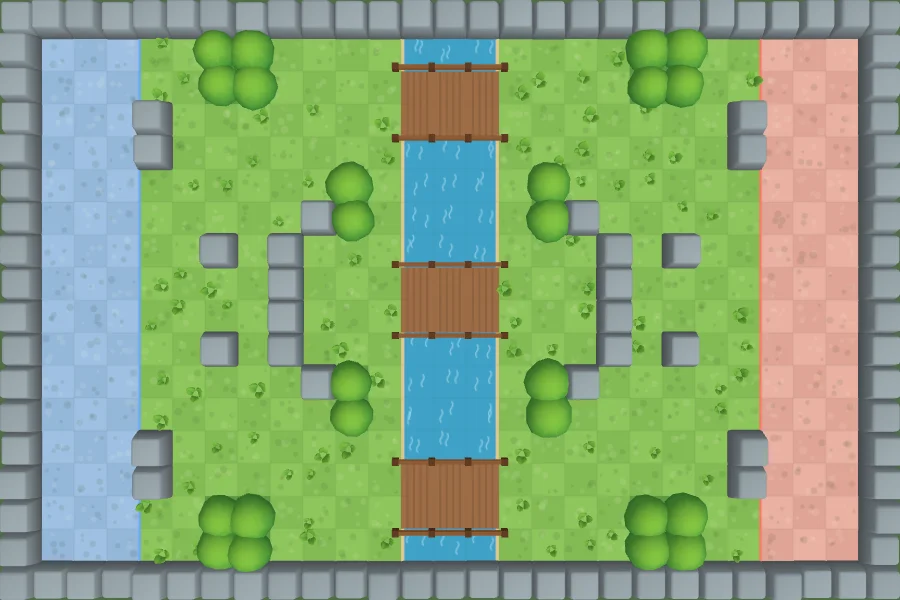
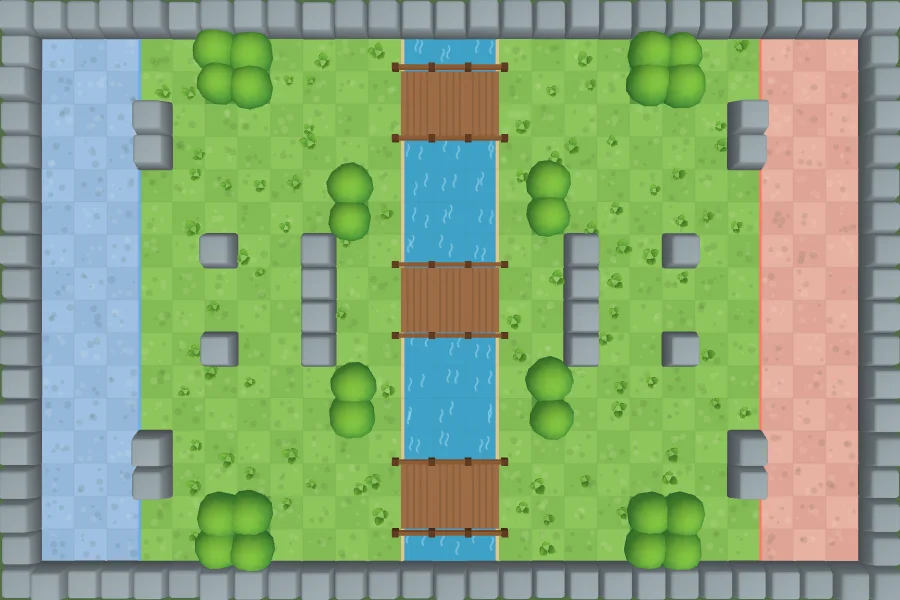
30번: 눈 광장·강 건너기 배치 수정, 맵 순서 가나다순, 연습장 맨 앞

diff --git a/games/30.team-battle/30.team-battle-tests.js b/games/30.team-battle/30.team-battle-tests.js
@@ -1,28 +1,44 @@
 class FixedTestArena {
-  static ID = "forest";
-  static HOST = "snow";
-  static BLUE_HALF = [
-    "................",
-    "................",
-    "................",
-    "...##......##...",
-    '""............""',
-    '"""....##...."""',
-    '""".........."""',
-    "....#......#....",
-    '....#..""..#....',
-    '.##....""....##.',
-    "................",
-    '..""...##...""..',
-    '..""........""..'
-  ];
+  static LAYOUTS = {
+    forest: { host: "snow", blueHalf: [
+      "................",
+      "................",
+      "................",
+      "...##......##...",
+      '""............""',
+      '"""....##...."""',
+      '""".........."""',
+      "....#......#....",
+      '....#..""..#....',
+      '.##....""....##.',
+      "................",
+      '..""...##...""..',
+      '..""........""..'
+    ] },
+    ford: { host: "river", blueHalf: [
+      "................",
+      "................",
+      "................",
+      "..##........##..",
+      "................",
+      '""....#..#....""',
+      '""............""',
+      "......####......",
+      ".....#....#.....",
+      '....""....""....',
+      "................",
+      "~==~~~~==~~~~==~",
+      "~==~~~~==~~~~==~"
+    ] }
+  };
   static install(api) {
-    var load = api.loadMapData, host = api.MAPS[FixedTestArena.HOST];
+    var load = api.loadMapData;
     api.loadMapData = function (id) {
-      if (id !== FixedTestArena.ID) return load(id);
-      var real = host.blueHalf;
-      host.blueHalf = FixedTestArena.BLUE_HALF;
-      try { return load(FixedTestArena.HOST); } finally { host.blueHalf = real; }
+      var fixed = FixedTestArena.LAYOUTS[id];
+      if (!fixed) return load(id);
+      var host = api.MAPS[fixed.host], real = host.blueHalf;
+      host.blueHalf = fixed.blueHalf;
+      try { return load(fixed.host); } finally { host.blueHalf = real; }
     };
   }
 }
@@ -4163,7 +4179,7 @@ class ResultCollector {
   runAsync(ROSTERG, "맵 고르기 목록(mapChoices)·무작위 맵(resolveArena)·모드 이름이 맞는가", async function (done) {
     var bad = [], ids = function (l) { return l.map(function (m) { return m.id; }).join(); }, real = Math.random;
     if (ids(api.mapChoices("pvp")) !== ["random"].concat(api.MAP_IDS).join()) bad.push("일반모드 목록 " + ids(api.mapChoices("pvp")));
-    if (ids(api.mapChoices("practice")) !== api.MAP_IDS.concat(["practice"]).join()) bad.push("연습모드 목록");
+    if (ids(api.mapChoices("practice")) !== ["practice"].concat(api.MAP_IDS).join()) bad.push("연습모드 목록");
     if (api.resolveArena("river") !== "river" || api.resolveArena("practice") !== "practice") bad.push("정해진 맵은 그대로");
     try {
       Math.random = function () { return 0.99; }; if (api.resolveArena("random") !== api.MAP_IDS[api.MAP_IDS.length - 1]) bad.push("무작위 끝");
@@ -6164,7 +6180,7 @@ class HookPathTests {
     var self = this, api = this.api, run = this.kit.run, G = HookPathTests.GROUP;
     HookPathTests.CASES.forEach(function (c) {
       run(G, c[0] + ": " + c[5] + ", 끝 (" + c[6] + "," + c[7] + "), 이동 " + c[8], function (done) {
-        api.loadMapData("river");
+        api.loadMapData("ford");
         var p = api.HOOK_PATH.plan(c[1], c[2], c[3], c[4], c[9]), ok = p.kind === c[5] && Math.abs(p.ex - c[6]) <= 1 && Math.abs(p.ey - c[7]) <= 1 && Math.abs(p.dist - c[8]) <= 1;
         done(ok ? "pass" : "fail", p.kind + ", 끝 (" + p.ex.toFixed(1) + "," + p.ey.toFixed(1) + "), 이동 " + p.dist.toFixed(1));
       });
@@ -6236,7 +6252,7 @@ class WraithTests {
     var self = this, api = this.api, run = this.kit.run, G = WraithTests.GROUP, FRAME = this.kit.FRAME, ULT = api.ULT;
     [["A2", 450, 800, 450, 560, 450, 616], ["A3", 250, 840, 250, 560, 250, 774], ["A4", 300, 774, 300, 576, 300, 774], ["A8", 476, 790, 380, 560, 424, 665.4]].forEach(function (c) {
       run(G, "실제 끌기 " + c[0] + ": 끝 위치가 경로 표와 같고, 프레임마다 벽·물 밖이며, 끝난 뒤 위치가 밀리지 않는가", function (done) {
-        var bad = [], W = self.duel("river", c[3], c[4], c[0 + 1], c[2]), A = W.ent("wr"), T = W.ent("foe");
+        var bad = [], W = self.duel("ford", c[3], c[4], c[0 + 1], c[2]), A = W.ent("wr"), T = W.ent("foe");
         function each() { if (!self.canStand(T.x, T.y)) bad.push("(" + T.x.toFixed(1) + "," + T.y.toFixed(1) + ") 에 설 수 없음"); }
         self.throwChain(W, A, T.x, T.y);
         if (!self.untilCaught(W, FRAME, each)) bad.push("맞지 않음");
@@ -6251,7 +6267,7 @@ class WraithTests {
     run(G, "프레임 간격 8·16·33·100·250ms 에서 끌기 끝 위치가 같은가(터널링 없음)", function (done) {
       var bad = [], ends = [];
       [8, 16, 33, 100, 250].forEach(function (frame) {
-        var W = self.duel("river", 380, 560, 476, 790), A = W.ent("wr"), T = W.ent("foe");
+        var W = self.duel("ford", 380, 560, 476, 790), A = W.ent("wr"), T = W.ent("foe");
         self.throwChain(W, A, T.x, T.y);
         self.untilCaught(W, frame);
         self.untilArrived(W, T, frame, function () { if (!self.canStand(T.x, T.y)) bad.push(frame + "ms 프레임에서 물 안"); });
@@ -6272,7 +6288,7 @@ class WraithTests {
     });
     run(G, "끌리는 동안 매 프레임 기절·속도 0·공격 불가이고, 도착 뒤 정확히 0.5초 뒤 기절이 풀리는가(짧은 거리·최대 거리)", function (done) {
       var bad = [], shown = [];
-      [["짧은 거리", "river", 200, 560, 200, 300], ["최대 거리", "practice", 450, 340, 450, 1010]].forEach(function (c) {
+      [["짧은 거리", "ford", 200, 560, 200, 300], ["최대 거리", "practice", 450, 340, 450, 1010]].forEach(function (c) {
         var W = self.duel(c[1], c[2], c[3], c[4], c[5]), A = W.ent("wr"), T = W.ent("foe"), hitAt = 0, atk = T.atkAt;
         self.throwChain(W, A, T.x, T.y);
         self.untilCaught(W, 4);
@@ -6291,7 +6307,7 @@ class WraithTests {
         if (api.stunned(T, freeAt + 1)) bad.push(c[0] + " 풀린 뒤에도 기절");
         shown.push(c[0] + " " + planned.toFixed(0) + " 이동, 기절 실제 " + ((freeAt - hitAt) / api.timeScale() / 1000).toFixed(2) + "초");
       });
-      [["강가 none", "river", 300, 576, 300, 774]].forEach(function (c) {
+      [["강가 none", "ford", 300, 576, 300, 774]].forEach(function (c) {
         var W = self.duel(c[1], c[2], c[3], c[4], c[5]), A = W.ent("wr"), T = W.ent("foe");
         self.throwChain(W, A, T.x, T.y);
         self.untilCaught(W, 4);
@@ -6329,7 +6345,7 @@ class WraithTests {
   registerHits() {
     var self = this, api = this.api, run = this.kit.run, G = WraithTests.GROUP, FRAME = this.kit.FRAME, ULT = api.ULT;
     run(G, "물 건너 거리 280 의 적이 맞아 피해 35·기절을 받는가", function (done) {
-      var bad = [], W = self.duel("river", 250, 560, 250, 840), A = W.ent("wr"), T = W.ent("foe");
+      var bad = [], W = self.duel("ford", 250, 560, 250, 840), A = W.ent("wr"), T = W.ent("foe");
       self.throwChain(W, A, T.x, T.y);
       if (!self.untilCaught(W, FRAME)) bad.push("맞지 않음");
       if (self.lost(T) !== ULT.hkDmg) bad.push("피해 " + self.lost(T));
@@ -6337,7 +6353,7 @@ class WraithTests {
       self.verdict(done, bad, "피해 " + self.lost(T) + "·기절");
     });
     run(G, "벽 뒤의 적은 맞지 않고 게이지를 돌려받지 않으며, 비행 시간이 끝나면 묶임이 풀리는가", function (done) {
-      var bad = [], W = self.duel("river", 200, 350, 200, 100), A = W.ent("wr"), T = W.ent("foe");
+      var bad = [], W = self.duel("ford", 200, 350, 200, 100), A = W.ent("wr"), T = W.ent("foe");
       self.throwChain(W, A, T.x, T.y);
       var rootEnd = A.hookRootUntil;
       if (api.speedOf(A) !== 0) bad.push("준비 중 움직일 수 있음");
@@ -6375,7 +6391,7 @@ class WraithTests {
       self.verdict(done, bad, "경계 " + reach + " 안쪽 맞음·바깥 빗나감");
     });
     run(G, "풀숲 안·은신 중인 적은 끌리는 동안 드러나고, 끝나면 원래 규칙으로 돌아가는가", function (done) {
-      var bad = [], W = self.duel("river", 100, 600, 100, 350), A = W.ent("wr"), T = W.ent("foe");
+      var bad = [], W = self.duel("ford", 100, 600, 100, 350), A = W.ent("wr"), T = W.ent("foe");
       self.throwChain(W, A, T.x, T.y);
       if (!api.inBush(T.x, T.y)) bad.push("풀숲 자리 아님");
       if (api.revealedTo(T, A, W.t())) bad.push("맞기 전에 드러남");
@@ -6486,7 +6502,7 @@ class WraithTests {
       self.verdict(done, bad, "돌진 끊김·끌림");
     });
     run(G, "끌리는 중 수문장 밀치기: 끌기가 끝나고 넉백되며 벽·물을 넘지 않는가", function (done) {
-      var bad = [], s = pulled("river", 450, 560, 450, 800), T = s.T, W = s.W;
+      var bad = [], s = pulled("ford", 450, 560, 450, 800), T = s.T, W = s.W;
       W.room.ref.child("meleeHits").push({ team: "blue", owner: "wr", x: T.x + 30, y: T.y, angle: Math.PI, radius: 100, arc: 6.28, dmg: 1, kb: 200, createdAt: W.t() });
       if (!T.shove) bad.push("넉백이 안 걸림");
       W.frame(FRAME);
@@ -6656,14 +6672,14 @@ class WraithTests {
       self.verdict(done, bad, "간격 " + gap.toFixed(2) + "초, 타격 1번");
     });
     run(G, "기본 공격: 벽 뒤는 맞지 않고 강 건너는 맞으며, 아군·보호 중인 적은 영향이 없고, 그림 길이가 벽에서 줄어든 길이와 같은가", function (done) {
-      var bad = [], W = self.duel("river", 200, 350, 200, 100), A = W.ent("wr"), up = -Math.PI / 2;
+      var bad = [], W = self.duel("ford", 200, 350, 200, 100), A = W.ent("wr"), up = -Math.PI / 2;
       api.fireBasic(A, up); strike(W);
       if (self.lost(W.ent("foe"))) bad.push("벽 뒤 적이 맞음");
       var hit = W.log.filter(function (p) { return p.path === "meleeHits" && !p.v.zone && p.v.owner === "wr"; })[0].v;
       if (!(hit.len < C.range)) bad.push("길이가 줄지 않음 " + hit.len);
       var slam = api.FIELD.slams[0];
       if (!slam || slam.d.len !== hit.len) bad.push("그림 길이 " + (slam && slam.d.len) + " / 판정 " + hit.len);
-      var W2 = self.duel("river", 250, 576, 250, 790), A2 = W2.ent("wr");
+      var W2 = self.duel("ford", 250, 576, 250, 790), A2 = W2.ent("wr");
       api.fireBasic(A2, Math.PI / 2); strike(W2);
       if (self.lost(W2.ent("foe")) !== C.dmg) bad.push("강 건너 피해 " + self.lost(W2.ent("foe")));
       var W3 = self.scene("practice", [{ id: "wr", team: "blue", char: "wraith", x: 150, y: y, slot: 1 }, { id: "al", team: "blue", x: 250, y: y, slot: 2 }, { id: "sf", x: 350, y: y, slot: 1 }]), A3 = W3.ent("wr"), S = W3.ent("sf");
@@ -6747,7 +6763,7 @@ class WraithTests {
       self.verdict(done, bad, "준비 뒤 타격");
     });
     run(G, "내려치기 이펙트: 사슬이 땅에 닿으면 균열·먼지·파편·불티가 생기고, 물 위에는 균열이 없으며, 끝나면 남지 않는가", function (done) {
-      var bad = [], W = self.duel("river", 250, 560, 250, 900), A = W.ent("wr"), view = api.HOOK_VIEW, B = api.ChainSlamBurst;
+      var bad = [], W = self.duel("ford", 250, 560, 250, 900), A = W.ent("wr"), view = api.HOOK_VIEW, B = api.ChainSlamBurst;
       api.fireBasic(A, Math.PI / 2); strike(W);
       var s = api.FIELD.slams[0];
       view.render(W.t(), Date.now());
@@ -6878,7 +6894,7 @@ class WraithTests {
       self.verdict(done, bad, "거리 안에서 사용");
     });
     run(G, "AI: 끌리는 거리가 " + ULT.hkBotMinPull + " 미만인 적(강 건너)에게는 스킬을 쓰지 않는가", function (done) {
-      var bad = [], W = self.duel("river", 300, 576, 300, 800, "dummy"), A = W.ent("wr"), T = W.ent("foe"), type = api.CHAR_TYPES.of("wraith");
+      var bad = [], W = self.duel("ford", 300, 576, 300, 800, "dummy"), A = W.ent("wr"), T = W.ent("foe"), type = api.CHAR_TYPES.of("wraith");
       if (type.botUltAllowed(A, T)) bad.push("강 건너 적을 허용");
       A.gauge = api.GAUGE_MAX;
       for (var ms = 0; ms < 1000; ms += 33) { A.x = 300; A.y = 576; W.frame(33, true); }
@@ -6932,7 +6948,7 @@ class WraithTests {
     run(G, "대상이 방장 기기의 AI 여도, 내 캐릭터여도 같은 결과가 나오는가", function (done) {
       var bad = [], before = api.setMyId("foe");
       try {
-        var W = self.duel("river", 380, 560, 476, 790), A = W.ent("wr"), T = W.ent("foe");
+        var W = self.duel("ford", 380, 560, 476, 790), A = W.ent("wr"), T = W.ent("foe");
         delete T.bot; delete api.MATCH.bots.foe; api.MATCH.me = T;
         W.room.host = "foe";
         self.throwChain(W, A, T.x, T.y);

diff --git a/30.team-battle-arena.html b/30.team-battle-arena.html
@@ -607,7 +607,7 @@ SinglePassMaterials.enable(THREE);
       '......""""......',
       '................',
       '""".........."""',
-      '""".x......x."""',
+      '""".........."""',
       '................',
       '....""tttt""....',
       '....""tttt""....'
@@ -622,8 +622,8 @@ SinglePassMaterials.enable(THREE);
       "................",
       '""....#..#....""',
       '""............""',
+      "................",
       "......####......",
-      ".....#....#.....",
       '....""....""....',
       "................",
       "~==~~~~==~~~~==~",
@@ -683,7 +683,7 @@ SinglePassMaterials.enable(THREE);
   }
   class MapCatalog {
     static KINDS = { snow: SnowPlazaMap, river: RiverMap, dungeon: DungeonMap, windhill: WindhillMap, practice: PracticeMap };
-    static IDS = ["snow", "river", "dungeon", "windhill"];
+    static IDS = ["river", "snow", "dungeon", "windhill"];
     static of(id) { return Object.prototype.hasOwnProperty.call(MapCatalog.KINDS, id) ? MapCatalog.KINDS[id].DATA : undefined; }
     static table() {
       var table = {};
@@ -1426,7 +1426,7 @@ SinglePassMaterials.enable(THREE);
     flashHint(t) { var services = this.services; services.lobby.hintText = t; services.lobby.hintUntil = Date.now() + 2500; services.lobby.renderLobby(); setTimeout(function () { services.lobby.renderLobby(); }, 2600); }
     mapChoices(mode) {
       var maps = MapCatalog.IDS.map(function (id) { return { id: id, name: MapCatalog.of(id).name }; });
-      return mode === "practice" ? maps.concat([{ id: "practice", name: MapCatalog.of("practice").name }]) : [{ id: "random", name: "랜덤" }].concat(maps);
+      return mode === "practice" ? [{ id: "practice", name: MapCatalog.of("practice").name }].concat(maps) : [{ id: "random", name: "랜덤" }].concat(maps);
     }
     nameIn(list, id, fallback) { for (var i = 0; i < list.length; i++) if (list[i].id === id) return list[i].name; return fallback; }
     modeName(id) { var services = this.services; return services.lobby.nameIn(GameModes.LIST, id, "모드 선택 중"); }
@@ -10297,8 +10297,8 @@ SinglePassMaterials.enable(THREE);
     static SNOW = 0xF4F9FF;
     static DRIFT = [0xEEF4FC, 0xE0EAF7, 0xF8FBFF];
     static SHRUB = 0x3F8F6E;
-    static HOUSE_H = 88;
-    static SNOWMAN_H = 70;
+    static BIG_SNOWMAN_H = 124;
+    static BIG_SNOWMAN_SPAN = { w: 4.1, d: 2.4 };
     static TREE_H = 150;
     static ORNAMENTS = [0xE0524A, 0xF2C14E, 0x4F8FE0, 0xFFFFFF];
     static GIFTS = ["giftRed", "giftGreen", "giftBlue", "giftYellow", "giftWhite"];
@@ -10315,8 +10315,7 @@ SinglePassMaterials.enable(THREE);
     }
     build(th) {
       var services = this.services, group = services.stage.arenaGroup;
-      this.addHouses(group);
-      this.addSnowmen(group);
+      this.addBigSnowmen(group);
       this.addCenterTree(group);
       this.addDrifts(group);
       this.addShrubs(th);
@@ -10327,17 +10326,10 @@ SinglePassMaterials.enable(THREE);
     }
     prop(name) { return this.services.models.kit.props[name]; }
     facingCenter(z) { return z < ArenaSize.MH / 2 ? 0 : Math.PI; }
-    addHouses(group) {
-      var services = this.services;
+    addBigSnowmen(group) {
+      var services = this.services, span = SnowPlazaProps.BIG_SNOWMAN_SPAN;
       services.arenaMap.tileRects("#").forEach((rect) => {
-        group.add(services.props.fitProp(this.prop("snowHouse"), rect.w * 1.34, SnowPlazaProps.HOUSE_H, rect.h * 1.34, rect.x, rect.y, this.facingCenter(rect.y)));
-      });
-    }
-    addSnowmen(group) {
-      var services = this.services;
-      services.arenaView.tilesOf("x").forEach((tile) => {
-        var x = services.arenaMap.tileX(tile[0]), z = services.arenaMap.tileY(tile[1]);
-        group.add(services.props.fitProp(this.prop("snowman"), ArenaSize.TILE * 2, SnowPlazaProps.SNOWMAN_H, ArenaSize.TILE * 1.15, x, z, this.facingCenter(z)));
+        group.add(services.props.fitProp(this.prop("snowman"), ArenaSize.TILE * span.w, SnowPlazaProps.BIG_SNOWMAN_H, ArenaSize.TILE * span.d, rect.x, rect.y, this.facingCenter(rect.y)));
       });
     }
     pineParts(parts, x, z, width, depth, height, lift) {

diff --git a/docs/30.team-battle/30.team-battle-notes.md b/docs/30.team-battle/30.team-battle-notes.md
@@ -381,11 +381,12 @@
 - **데이터 흐름**: 팀 대기실을 열 때(`showParty`) 내 통계를 한 번 읽어(`ArenaVersusCurtain.loadMine`) 요약을 들고 있다가, 방에 들어갈 때 내 자리 `players/<id>/vs = {g, w, t: [[캐릭터, 판, 승]…]}` 에 함께 쓴다(쓰기 횟수 그대로). 판이 끝나면 6초 뒤(계정 기록이 써진 다음) 다시 한 번 읽는다 — 판마다 읽기 1번. 막이 뜰 때 방 `assign` 을 한 번 읽는다(판마다 읽기 1번).
 - **시간**: 방장은 사람이 다 모여도 막이 뜬 지 4.5초(`ArenaVersusCurtain.SHOW_MS`)가 지나야 드래프트를 시작한다(`startAfterShow`). 드래프트·시작 화면·팀 대기실로 넘어가면 닫히는데, 뜬 지 2초(`MIN_MS`)가 안 됐으면 채우고 닫는다. 화면 크기는 vw·vh 로 맞춰 꽉 차고, 760px 아래에서는 블루 → VS → 레드 세로.
 - **눈 마을 광장(2026-11-28 선생님 요청, 숲속 공터를 대체)**: 돌이 많아 공격이 자주 막히던 숲속 공터를 없애고 그 자리에 넣었다. 맵 아이디 `snow`(옛 `forest` 는 없는 아이디 → 없는 맵은 `snow` 로 읽음), 데이터 `SnowPlazaMap.DATA`, 소품 `SnowPlazaProps`(`services.snowPlaza`), 색 `MapThemes.THEMES.snow`(`snowy`·`plaza`).
-  - 칸 글자: `#` 진저브레드 집(2×2, 4채), `x` 눈사람(1칸, 4개), `t` 가운데 크리스마스 트리(4×3, 새 벽 글자 — `TileKinds.BLOCK_TILES`·`ROCK_TILES`), `"` 눈 덮인 덤불. 물·다리는 없다.
+  - 칸 글자: `#` 큰 눈사람(2×2, 4개 — 처음의 진저브레드 집과 가운데 1칸 눈사람 4개는 같은 날 선생님 요청으로 바꿈·없앰, 집은 바깥 장식에만 남음), `t` 가운데 크리스마스 트리(4×3, 새 벽 글자 — `TileKinds.BLOCK_TILES`·`ROCK_TILES`), `"` 눈 덮인 덤불. 물·다리는 없다.
   - 트리는 저장소에 모델이 없어 원뿔로 직접 만든다(`pineParts`, 바깥 침엽수도 같음). 터치·저사양 기기는 바깥 장식(`scenery`)을 그리지 않는다.
   - 확인: `&test` 537 통과, AI 시뮬레이션 1,470판 시점에서 3초 넘게 제자리인 프레임 비율 눈 광장 0.05%(강 0.16·던전 0.04·언덕 0.06). 5,000판 밸런스 보고서와 실제 태블릿 렉은 아직 확인하지 않았다.
   - 검사의 `world("forest")`·`loadMapData("forest")` 는 **검사 전용 시험장**(옛 숲속 공터 배치, `FixedTestArena`)이다. 벽·빈 줄 위치에 기대는 상호작용 검사가 맵을 바꿔도 흔들리지 않게 둔 것이고, 실제 맵 검사(맵 데이터·밀어내기·착지·경로)는 `snow` 를 쓴다.
-- **기본 맵은 랜덤**(2026-11-28 선생님 요청): 방을 만들면(그리고 연습모드에서 나오면) 맵이 `random` 으로 골라져 있고, 맵 버튼은 `랜덤`이 맨 앞이다(`Lobby.mapChoices`, 연습모드 목록은 맵 4개 뒤 `연습장` 그대로).
+- **기본 맵은 랜덤**(2026-11-28 선생님 요청): 방을 만들면(그리고 연습모드에서 나오면) 맵이 `random` 으로 골라져 있고, 맵 버튼은 `랜덤`이 맨 앞이다(`Lobby.mapChoices`). 연습모드 목록은 `연습장`이 맨 앞. 맵 순서는 가나다순(강 건너기 → 눈 마을 광장 → 던전 회랑 → 바람의 언덕, `MapCatalog.IDS`).
+- **강 건너기 배치 수정**(2026-11-28 선생님 요청): 가운데 4칸 벽 대각선 아래의 1칸 돌 2개를 없애고 4칸 벽을 강 쪽으로 1칸 옮겼다(점대칭 유지). 옛 배치는 검사 전용 시험장 `ford`(`FixedTestArena`)로 남겨 사슬 망령 끌기 거리 검사가 쓴다.
 - **맵 이름은 매칭 표(`ticket.map`)에서**(2026-10-29, `ArenaVersusCurtain.mapName`): 방에 들어간 직후 `room.map` 은 입장 때 채운 기본값(당시 `forest`, 2026-11-28 부터 `random`)이라 막이 "숲속 공터"를 먼저 그렸다가 방 값이 도착하면 바뀌었다(24번과 같은 문제). 랜덤 매칭이면 매칭 표의 맵 이름을, 아니면 방 값을 쓴다.
   **맵이 `랜덤`인 일반 방**(2026-11-04 선생님 보고: 승률·모스트 캐릭터 없이 제목과 안내만 나옴): `room.map` 이 `random` 이면 `MapCatalog.of` 가 비어 `mapName` 이 오류를 내고 선수 줄을 하나도 못 그렸다. 실제 맵은 `startGame`·`startDraft` 에서 정해지므로 막에는 `랜덤 맵`이라고 쓴다.
   **예방**: 막·대결 화면처럼 방에 들어가자마자 그리는 화면은 `services.session.room` 의 값(맵·모드·팀 등)을 바로 믿지 않는다 — 입장 때 기본값으로 채워 두었다가 구독 값이 오면 바꾸기 때문이다. 매칭 표처럼 입장 전에 이미 정해진 값을 쓰거나, 방 값이 도착한 뒤에 그린다.
@@ -965,7 +966,7 @@
 
 - **고친 뒤 확인하는 순서(매번, 2026-10-13 정리)**: 구조를 크게 고친 뒤에는 `&test`·`&sim` 만으로는 부족하다. 필드가 메서드를 덮어쓴 `stormMask` 사고, 문자열 안 `clamp(` 치환, 정의되지 않은 `TOUR_STILL_SHOT`·`ov` 가 이 둘을 통과하고 특정 화면에서만 터졌다.
   1. `&test`: "통과 546 · 문제 0 · 확인 필요 0"(2026-11-26 저격수 원 검사 추가 뒤. 그 전 545 — 같은 날 방패병 둘째·셋째 수정(요한계시록 본인만·해일·독병) 뒤. 그 전 544 — 같은 날 전체 공격 검사 추가 뒤. 그 전 543 — 같은 날 원거리 발사 지점 뒤, 그 전 540 — 같은 날 궁수·뇌전사수 화살 그림, 검사 "화살 그림" 3개 추가. 그 전 "통과 536" — 2026-11-25 드루이드·공학자·네크로 3차 수정(5-24) 뒤 결과 해시 993568538. 2차 뒤 3300243291. 그 전 533: 1차 개선 뒤 결과 해시 2323061302 — 헤드리스 크롬 화면 글을 그대로 모아 같은 식으로 낸 값, 같은 코드에서 한 번 더 돌리면 570452786 처럼 사슬 망령 AI 항목 때문에 달라질 수 있다. 그 전 526: 헌터 스킬 중 볼트 오라 뒤 결과 해시 1934846820, `&sim` 은 그림만 바뀌어 그대로. 그 전 2026-11-25 헌터 유도 착지 사격 — 헌터 그룹 유도 검사 3개 추가, 결과 해시 1839015040. 그 전 523: 2026-11-25 헌터 추가 — 그룹 "헌터" 12개·헌터 난전·AI 역할 표·발사 지점에 헌터 석궁. 결과 해시 3942867273. 그 전 509: 2026-11-25 아르카 발사 지점 검사 추가 — 손·총구 고정점 없이 몸에서 쏘는 캐릭터 목록도 보여 줌, 그 전 508 아르카 빈 결계 사라짐 검사 추가, 그 전 507 — 2026-11-24 아르카 검사 12개·아르카 난전·결계 조준 범위 추가, 그 전 493(스킬 조준 범위 검사 11개 추가), 그 전 482(둔화 점수 저장 거부 검사)·481(방패병 패시브)·480(밀어내기)·479(모습)·478(방패병)·464(원형 스킬 벽 무시)·460(팬텀)·449·429(2026-11-05 선봉장·해일 해골 검사 추가)·427·425·423·422·396·394·376·375·374·366·289·287·286·285·280·279·278·269).
-  2. `&sim` 해시: `?c=test&sim` 에서 `TB_SIM.run(300,5000)` 후 `TB_SIM.done` 을 기다려 `JSON.stringify(TB_SIM.results)` 의 djb2(식은 10절)가 **2017900868 (길이 739213)**(2026-11-28 숲속 공터 → 눈 마을 광장). 그 전 **3171098531 (길이 739512)**(2026-11-28 아르카 구슬 속도 700, 5-30). 그 전 **806109381 (길이 739075)**(2026-11-26 v7: 암살자 게이지 4·팬텀 질풍 하향, 5-28 — 5-29 하향 값은 따로 적지 않음). 그 전 **999055438 (길이 739058)**(2026-11-26 궁수·저격수·주술사·은신자 투사체 속도 조정, 5-27). 그 전 **1000627799 (길이 738749)**(2026-11-26 헌터·뇌전사수 스킬 쓰는 순간 기본 공격 대기 0). 그 전 **554949636 (길이 738997)**(2026-11-26 저격수 패시브 거리 500 → 400). 그 전 **1079544362 (길이 739102)**(2026-11-26 요한계시록은 방패병 본인만 막도록 다시 고친 뒤). 그 전 **995741589 (길이 739171)**(2026-11-26 요한계시록·해일을 방패가 막고 독병·독안개는 던진 자리로 방패병 본인만 막음). 그 전 **2979211188 (길이 739133)**(2026-11-26 공학자 포탄을 총구 방향으로 막고 마리나 막힌 물줄기가 튀지 않게 고친 뒤). 그 전 **2595131624 (길이 739297)**(2026-11-26 화살 그림·원거리 발사 지점 수정 전후 같음 — 11-26 드루이드·아르카·네크로 수치 조정이 반영된 값). 그 전 **3765992671 (길이 738656)**(2026-11-25 드루이드·공학자·네크로 3차 수정(5-24). 그 전 1082773350·길이 738924 — 2차. 그 전 1538298846·길이 738672 — 1차 개선. 그 전 3643394870·길이 739150 — 헌터 착지 사격을 가장 가까운 적 유도 볼트로. 그 전 4004165230·길이 738949 — 2026-11-25 헌터 추가 — 헌터가 이름순 목록에 들어가 캐릭터 뽑기가 달라졌으므로 전 값과 비교하지 않는다. AI 착지 자리 판단(`HunterBotMind.plan`)을 넣기 전 첫 값은 3513815874·길이 738749. 그 전 1838969245·길이 740558 — 2026-11-25 아르카 결계가 갇힌 적이 없으면 사라지고 게이지가 다시 참. 그 전 3659680582·길이 740658 — 2026-11-25 v6 팬텀 하향: 검기 판정 100→75·가까운 피해 40→35·간격 1.1→1.4초, 잔영섬 폭 150→120. 그 전 2429434445·길이 740564 — 2026-11-24 아르카 결계 끝 닿음을 "기절과 동시에 끌림"으로, 즉발 공격 때 결계 중심을 봄. 그 전은 1146291357·길이 740633 — 아르카 추가 기준, 아르카가 이름순 목록에 들어가 캐릭터 뽑기가 달라졌으므로 그 전 값과 비교하지 않는다. 그 전은 1039529941·길이 740410 — 팬텀 잔영섬 벽 판정 10 기준. 그 전은 89900200(길이 740453, 드루이드 리메이크, 조준 범위 수정 전후 같음). 그 사이 방패병 패시브·피해 30 은 따로 재지 않음. 그 전은 900266789(길이 741228, 방패병 밀어내기 150), 그 전은 3404849406(길이 741251, 체력 450·밀어내기 200·200), 그 전은 3620691149(길이 740993, 방패 폭 240), 그 전은 90211505(길이 740734, 폭 300·직선 방패·밀치기 150×200), 그 전은 2938227349(길이 740587, 방패병 추가(호 판정·밀치기 200×90) + 대장장이 착지·기사 기절·뇌전사수 과충전 벽 무시, 두 변경 사이 값은 따로 재지 않음). 그 전은 1762908539(길이 742649, 팬텀 근접 삭제·거리 피해, v5.1 팬텀 하향 전), 그 전은 612337107(길이 742525, 관통·초승달 판정), 그 전은 2864121634(길이 742606, 피해 30·간격 1.1·검기 450·350·100·벽 판정 10), 그 전은 2806933336(길이 742545, 380·350·50), 그 전은 2378623720(길이 742634, 280·350·30), 그 전은 3679995284(길이 742527, 팬텀 AI 가 적 1명만 띠에 있어도 스킬을 쓰도록 바꾼 뒤), 그 전은 2451025508(길이 742542, 팬텀 추가), 그 전은 1514274766(길이 740316, 2026-11-05 선봉장·해일 해골 적용·별똥별 반경 100 기준), 그 전은 302983093(클레릭 회복 20·검무희 칼날 폭풍 20·두 스킬 중 공격 금지), 2851027182(포탑 총구 출발, 길이 740728). 그 수정 직전 코드에서 다시 잰 값은 1050438226(길이 740780). 그 전 기록은 2105869477(마리나 3차 조정·던전 맵 리메이크·기사/선봉장 설명 수정), 3149198185(마리나 2차 조정·클레릭 요한계시록 3초). 이름순 목록이 바뀌면 캐릭터 뽑기 순서도 달라져 값이 바뀐다. 그 전은 405343022(마리나 1차 조정)·810204653(마리나 추가)·257309378·3075244090·2654552421·3158762400·2927501425·3066545761·2887863878·2963582068·3415308208·1382875394·2328581476·3373110270·850391541). 수치·규칙을 일부러 바꿨으면 새 기준값을 잡는다. 식이 다르면(예: `x*33 + c`) 값이 달라 보이니 식부터 맞춘다.
+  2. `&sim` 해시: `?c=test&sim` 에서 `TB_SIM.run(300,5000)` 후 `TB_SIM.done` 을 기다려 `JSON.stringify(TB_SIM.results)` 의 djb2(식은 10절)가 **888154341 (길이 739324)**(2026-11-28 강 건너기·눈 광장 배치 수정, 맵 순서 가나다순). 그 전 **2017900868 (길이 739213)**(2026-11-28 숲속 공터 → 눈 마을 광장). 그 전 **3171098531 (길이 739512)**(2026-11-28 아르카 구슬 속도 700, 5-30). 그 전 **806109381 (길이 739075)**(2026-11-26 v7: 암살자 게이지 4·팬텀 질풍 하향, 5-28 — 5-29 하향 값은 따로 적지 않음). 그 전 **999055438 (길이 739058)**(2026-11-26 궁수·저격수·주술사·은신자 투사체 속도 조정, 5-27). 그 전 **1000627799 (길이 738749)**(2026-11-26 헌터·뇌전사수 스킬 쓰는 순간 기본 공격 대기 0). 그 전 **554949636 (길이 738997)**(2026-11-26 저격수 패시브 거리 500 → 400). 그 전 **1079544362 (길이 739102)**(2026-11-26 요한계시록은 방패병 본인만 막도록 다시 고친 뒤). 그 전 **995741589 (길이 739171)**(2026-11-26 요한계시록·해일을 방패가 막고 독병·독안개는 던진 자리로 방패병 본인만 막음). 그 전 **2979211188 (길이 739133)**(2026-11-26 공학자 포탄을 총구 방향으로 막고 마리나 막힌 물줄기가 튀지 않게 고친 뒤). 그 전 **2595131624 (길이 739297)**(2026-11-26 화살 그림·원거리 발사 지점 수정 전후 같음 — 11-26 드루이드·아르카·네크로 수치 조정이 반영된 값). 그 전 **3765992671 (길이 738656)**(2026-11-25 드루이드·공학자·네크로 3차 수정(5-24). 그 전 1082773350·길이 738924 — 2차. 그 전 1538298846·길이 738672 — 1차 개선. 그 전 3643394870·길이 739150 — 헌터 착지 사격을 가장 가까운 적 유도 볼트로. 그 전 4004165230·길이 738949 — 2026-11-25 헌터 추가 — 헌터가 이름순 목록에 들어가 캐릭터 뽑기가 달라졌으므로 전 값과 비교하지 않는다. AI 착지 자리 판단(`HunterBotMind.plan`)을 넣기 전 첫 값은 3513815874·길이 738749. 그 전 1838969245·길이 740558 — 2026-11-25 아르카 결계가 갇힌 적이 없으면 사라지고 게이지가 다시 참. 그 전 3659680582·길이 740658 — 2026-11-25 v6 팬텀 하향: 검기 판정 100→75·가까운 피해 40→35·간격 1.1→1.4초, 잔영섬 폭 150→120. 그 전 2429434445·길이 740564 — 2026-11-24 아르카 결계 끝 닿음을 "기절과 동시에 끌림"으로, 즉발 공격 때 결계 중심을 봄. 그 전은 1146291357·길이 740633 — 아르카 추가 기준, 아르카가 이름순 목록에 들어가 캐릭터 뽑기가 달라졌으므로 그 전 값과 비교하지 않는다. 그 전은 1039529941·길이 740410 — 팬텀 잔영섬 벽 판정 10 기준. 그 전은 89900200(길이 740453, 드루이드 리메이크, 조준 범위 수정 전후 같음). 그 사이 방패병 패시브·피해 30 은 따로 재지 않음. 그 전은 900266789(길이 741228, 방패병 밀어내기 150), 그 전은 3404849406(길이 741251, 체력 450·밀어내기 200·200), 그 전은 3620691149(길이 740993, 방패 폭 240), 그 전은 90211505(길이 740734, 폭 300·직선 방패·밀치기 150×200), 그 전은 2938227349(길이 740587, 방패병 추가(호 판정·밀치기 200×90) + 대장장이 착지·기사 기절·뇌전사수 과충전 벽 무시, 두 변경 사이 값은 따로 재지 않음). 그 전은 1762908539(길이 742649, 팬텀 근접 삭제·거리 피해, v5.1 팬텀 하향 전), 그 전은 612337107(길이 742525, 관통·초승달 판정), 그 전은 2864121634(길이 742606, 피해 30·간격 1.1·검기 450·350·100·벽 판정 10), 그 전은 2806933336(길이 742545, 380·350·50), 그 전은 2378623720(길이 742634, 280·350·30), 그 전은 3679995284(길이 742527, 팬텀 AI 가 적 1명만 띠에 있어도 스킬을 쓰도록 바꾼 뒤), 그 전은 2451025508(길이 742542, 팬텀 추가), 그 전은 1514274766(길이 740316, 2026-11-05 선봉장·해일 해골 적용·별똥별 반경 100 기준), 그 전은 302983093(클레릭 회복 20·검무희 칼날 폭풍 20·두 스킬 중 공격 금지), 2851027182(포탑 총구 출발, 길이 740728). 그 수정 직전 코드에서 다시 잰 값은 1050438226(길이 740780). 그 전 기록은 2105869477(마리나 3차 조정·던전 맵 리메이크·기사/선봉장 설명 수정), 3149198185(마리나 2차 조정·클레릭 요한계시록 3초). 이름순 목록이 바뀌면 캐릭터 뽑기 순서도 달라져 값이 바뀐다. 그 전은 405343022(마리나 1차 조정)·810204653(마리나 추가)·257309378·3075244090·2654552421·3158762400·2927501425·3066545761·2887863878·2963582068·3415308208·1382875394·2328581476·3373110270·850391541). 수치·규칙을 일부러 바꿨으면 새 기준값을 잡는다. 식이 다르면(예: `x*33 + c`) 값이 달라 보이니 식부터 맞춘다.
   3. **화면 검사**: 연습전에서 모든 캐릭터를 차례로 골라 스킬(J)·공격(K)을 누르고 오류를 모은다(캐릭터 변경 창을 닫은 뒤 눌러야 키가 들어가고, 창의 캐릭터 목록은 늦게 채워지니 `#pcChars [data-c]` 가 생길 때까지 기다린다). 일반모드 한 판을 끝까지 돌려 결과표·MVP, 대회모드 드래프트(밴 → 픽 → 준비 완료 → 경기 시작)도 직접 돌린다.
   4. **정적 검사**(저장소에는 넣지 않는 임시 스크립트로): 모듈 스크립트를 뽑아 `node --check`, `tsc --allowJs --checkJs --noEmit` 으로 `TS2304`(정의되지 않은 이름)만 보기, 클래스마다 필드와 메서드 이름이 겹치는지·없는 메서드나 `static` 을 부르는지 파서(acorn)로 훑기, 셰이더·HTML 글자가 든 문자열이 치환에 휘말리지 않았는지 보기.
 - **상호작용 검사**: `30.team-battle-arena.html?c=1-1&test` 를 열면 결과 창이 뜬다. 캐릭터·스킬 판정을 고친 뒤에는 꼭 돌리고,
@@ -997,7 +998,7 @@
   로컬 서버가 저장소의 `sim-reports/`(gitignore, 인터넷에 올라가지 않음)에 저장하고, 그 파일을 선생님께 보낸다(`SendUserFile`). 보고서 탭 구성:
   1. 전체 통계 — 경기 수·무승부·블루/레드 승률·경기당 킬·AI가 피한 조합 카드, 캐릭터별 메인 통계 표, 팀 구성별 승률 표
   2. 직업군별 — 1번 표를 전사·마법사·원거리 딜러·암살자 4개 표로 나눔
-  3. 맵별 — 1번 메인 통계를 맵 4개(눈 마을 광장·강 건너기·던전 회랑·바람의 언덕)로 나눈 표(맵마다 요약 카드 포함)
+  3. 맵별 — 1번 메인 통계를 맵 4개(강 건너기·눈 마을 광장·던전 회랑·바람의 언덕)로 나눈 표(맵마다 요약 카드 포함)
   표 제목을 누르면 정렬되고, 승률 55% 이상은 초록·40% 미만은 붉게 칠한다. 보고서 내용은 `TB_SIM.reportHtml()`(`SimReportPage.build`·`ReportRenderer`·`SimReportPage.CSS`)이 만든다.
   저장은 `.claude/serve.ps1`(로컬 미리보기 서버, 저장소에 안 올라감)의 `POST /__save-report?name=…` 가 한다. **다른 컴퓨터의 serve.ps1 에 이 기능이 없으면** 아래를 `$p = …UnescapeDataString…` 줄 바로 뒤에 넣고,
   파일을 **UTF-8(BOM 포함)** 으로 저장한다(Windows PowerShell 5.1 이 한글 정규식을 읽도록). `.claude/` 안에는 서버가 쓸 수 없어서 `sim-reports/` 에 둔다.
